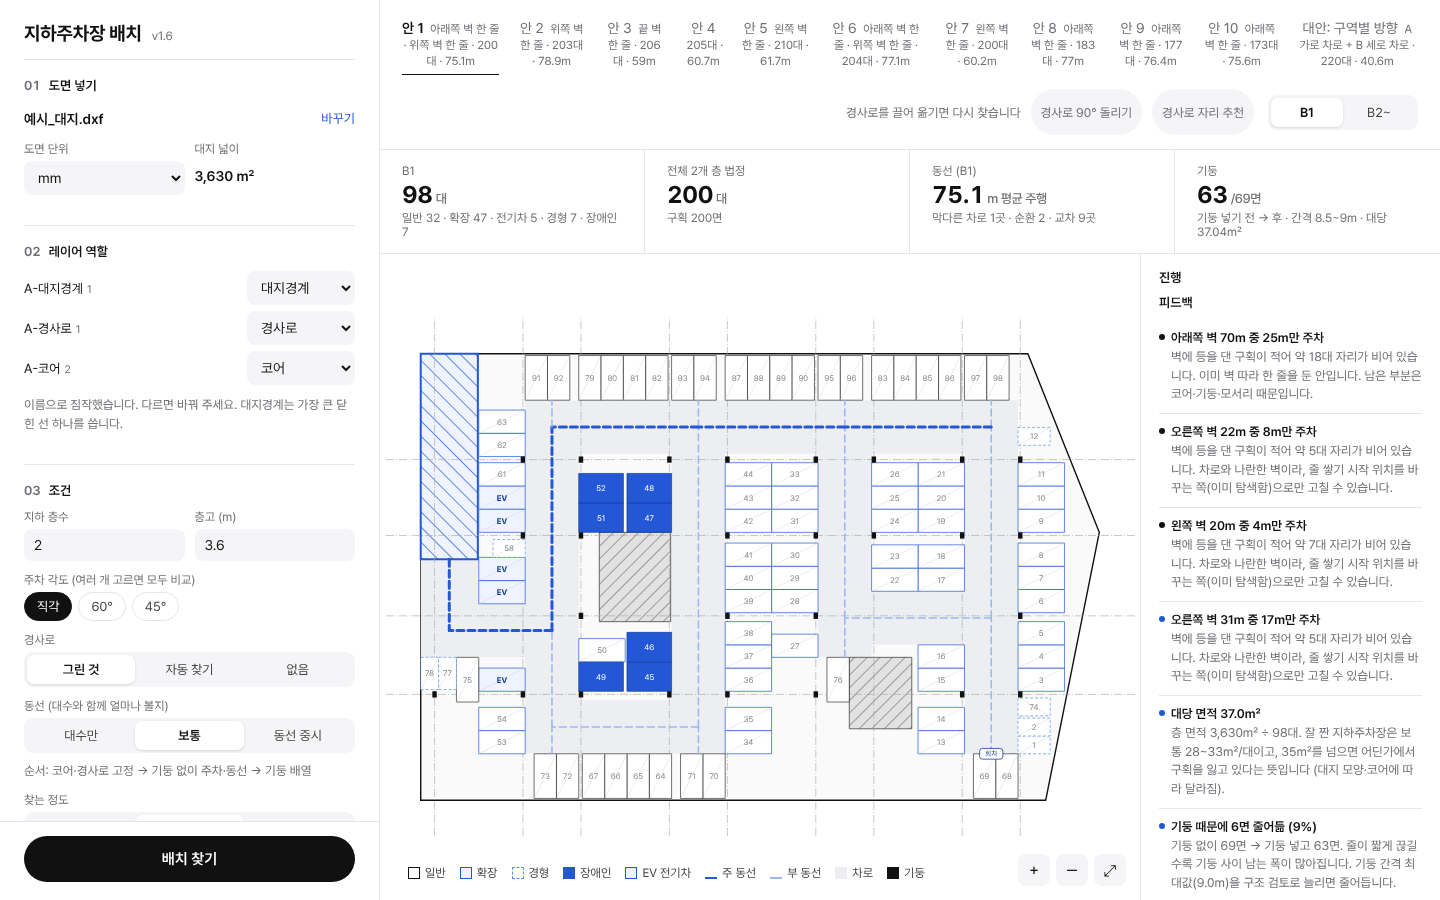
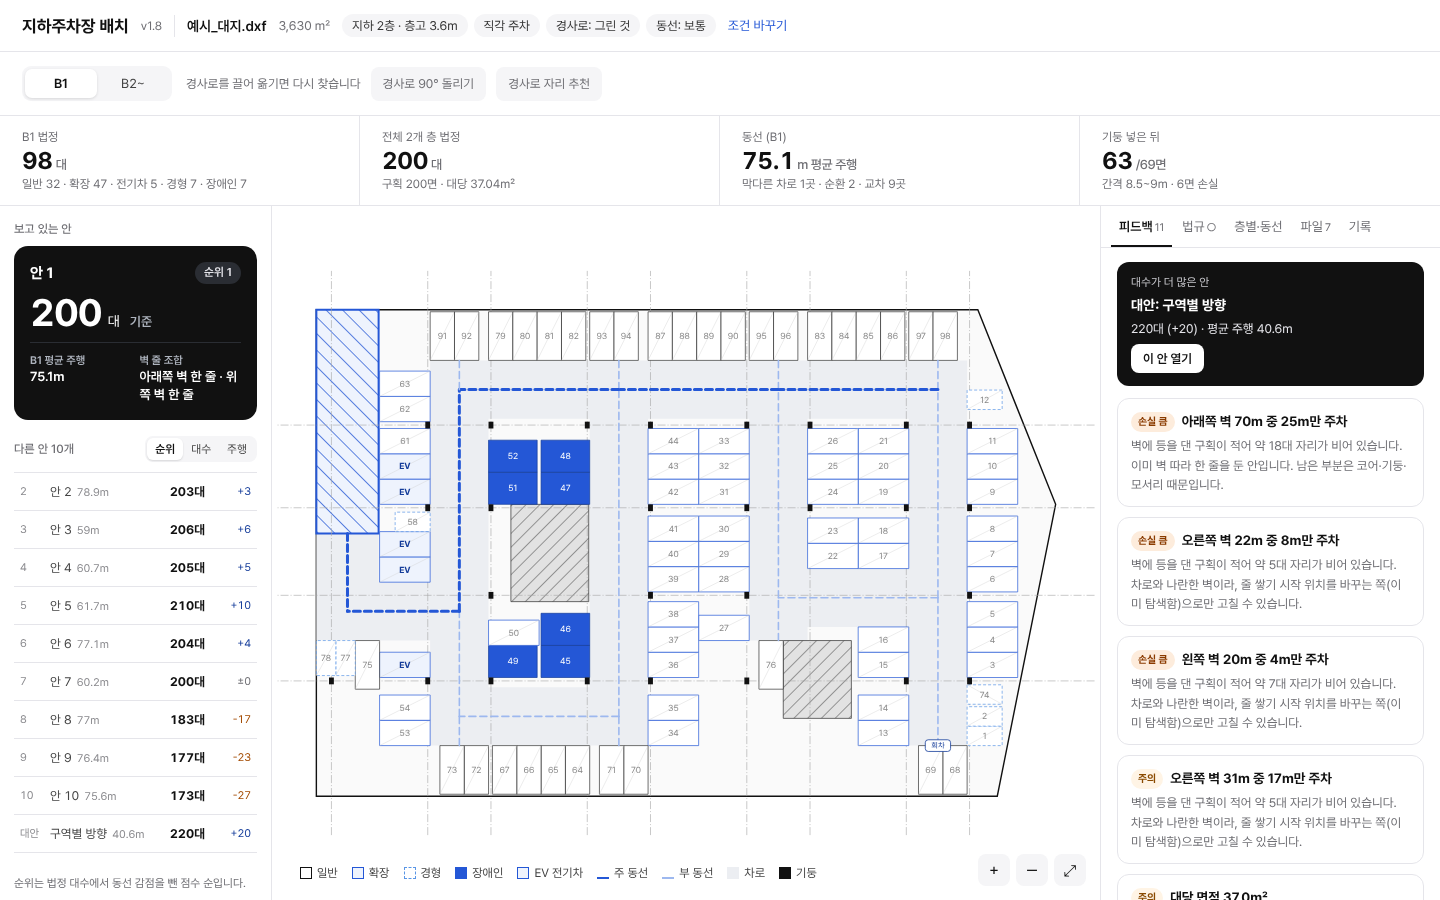
v1.8: 결과 화면 개편 배포
- VERSION 1.8 (DATE 20261123), README·사용법 버전 표기
- 사용법에 '결과 화면 (v1.8)' 절 추가
- README 화면 그림을 새 결과 화면으로 교체

Claude-Session: https://claude.ai/code/session_01H2ULUiYGGxpBXo5mtrBs1R

diff --git a/parking_ai/__init__.py b/parking_ai/__init__.py
@@ -1,2 +1,2 @@
-VERSION = "1.7"
+VERSION = "1.8"
 DATE = "20261123"

diff --git a/docs/사용법_상세.md b/docs/사용법_상세.md
@@ -1,6 +1,6 @@
 # 지하주차장 배치
 
-**버전 v1.7 (2026-11-23)**
+**버전 v1.8 (2026-11-23)**
 
 대지(지하 외벽선)와 코어, 경사로를 그린 도면 한 장을 넣으면, 주차장법 기준을 지키면서 **법정 주차대수가 가장 많은 지하주차장 배치**를 찾습니다. 결과는 DXF(캐드), 3dm(라이노 3D), 층별 대수표, 평면 그림으로 저장됩니다.
 
@@ -155,7 +155,7 @@
 python -m parking_ai 도면.dxf --floors 3 --effort thorough --ramp auto --angles 90,60 --circ 1
 ```
 
-## 한계 (v1.7)
+## 한계 (v1.8)
 
 - 비스듬한(60°·45°) 주차는 장애인 구획을 아직 넣지 않습니다. 대부분 대지에서 직각이 더 많이 나옵니다.
 - 곡선 경사로·나선형 램프는 그린 것만 피합니다(자동 찾기는 직선만).
@@ -191,3 +191,9 @@ python -m parking_ai 도면.dxf --floors 3 --effort thorough --ramp auto --angle
 - 결과: 평면 그림(점무늬, 범례), DXF `A-STOR` 레이어(외곽선 + 점 해치), 3dm 바닥 면, 법규 확인의 '외벽 둘레 … 띠' 줄(층당 면적).
 - 띠의 일부만 필요하면 그 자리를 '장애물' 레이어로 그리는 편이 정확합니다.
 - 명령줄: `python -m parking_ai 도면.dxf --band 2.5`
+
+## 결과 화면 (v1.8)
+
+- 결과가 나오면 왼쪽 조건 칸이 접히고, 맨 위에 도면 이름·넓이·조건 요약(층수·각도·경사로·동선, 목표 대수·정형 격자·외벽 띠를 넣었으면 그것도)이 한 줄로 나옵니다. '조건 바꾸기'로 다시 펼치고, 아래 '결과 보기'로 돌아옵니다.
+- 왼쪽 안 목록: 보고 있는 안은 큰 카드(법정 대수, 안 1 대비, B1 평균 주행, 벽 줄 조합), 다른 안은 한 줄씩. 다른 안은 순위·대수·주행으로 정렬할 수 있고, 누르면 그 안이 위로 올라옵니다.
+- 오른쪽 칸 탭: 피드백 / 법규 / 층별·동선 / 파일 / 기록. 피드백 맨 위에 '대수가 더 많은 안'과 바로 열기 버튼이 있고, 피드백마다 수준(손실 큼·주의·좋음·참고)을 표시합니다. 법규 탭 이름에 못 지킨 항목 수(×)가 붙습니다.

diff --git a/README.md b/README.md
@@ -2,7 +2,7 @@
 
 [![자동 시험](https://github.com/UA-Studio/parkplan/actions/workflows/ci.yml/badge.svg)](https://github.com/UA-Studio/parkplan/actions/workflows/ci.yml)
 
-**v1.7 (2026-11-23)**
+**v1.8 (2026-11-23)**
 
 지하 외벽선, 코어, 경사로를 그린 도면(DXF/3dm)을 넣으면 **주차장법을 지키면서 법정 주차대수가 가장 많은 지하주차장 배치**를 찾아 줍니다. 결과는 캐드(DXF), 라이노(3dm), 평면 그림, 층별 대수표로 받습니다.
 
